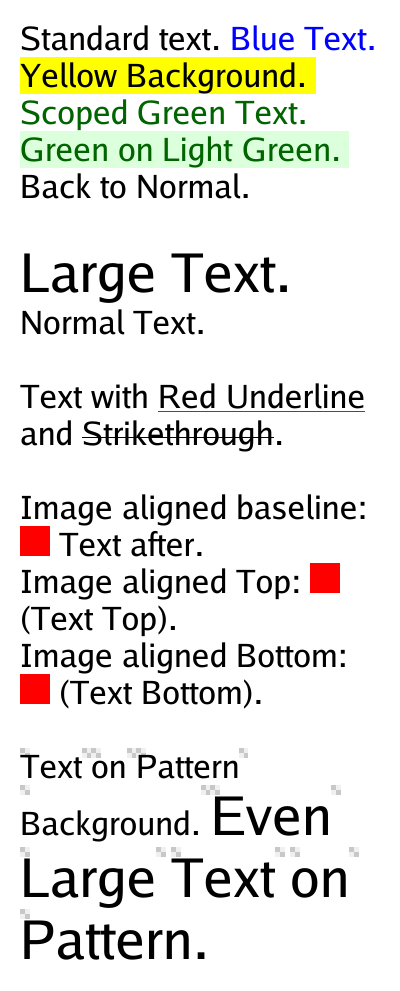
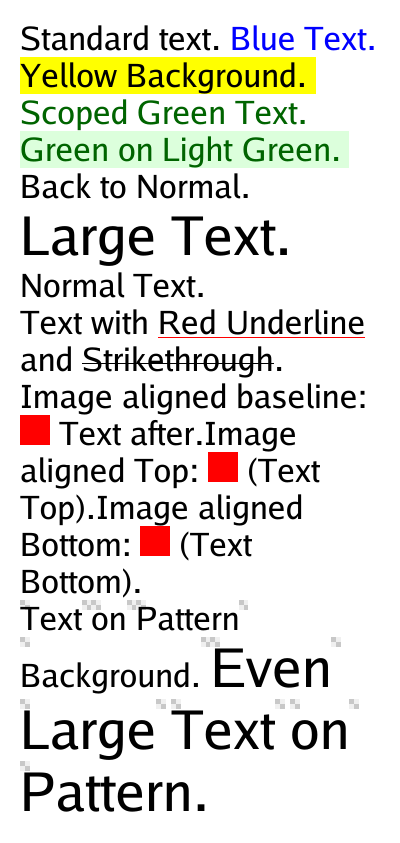
Refactor character grabbing logic, remove a font test, update documentation, and clean up module dependencies.

Changed region(s): [[0.03, 0.0, 0.93, 0.987], [0.48, 0.9561, 0.51, 0.987]]

diff --git a/box.go b/box.go
@@ -575,7 +575,7 @@ func StarTokenizer(text []rune) (int, []rune, int) {
 				}
 			}
 		}
-		if IsSpaceButNotCRLF(r) != isSpace {
+		if !mode(r) {
 			break
 		}
 		n++
@@ -585,7 +585,7 @@ func StarTokenizer(text []rune) (int, []rune, int) {
 		return 1, text[:1], RSimpleBox
 	}
 
-	return n, text[:n], RSimpleBox
+	return n, text[:n], rmode
 }
 
 // SimpleBoxerGrab Consumer of characters until change. Could be made to conform to strings.Scanner
@@ -609,54 +609,6 @@ func SimpleBoxerGrab(text []rune) (int, []rune, int) {
 	}
 	if r == '\n' {
 		return 1, text[:1], RCRLF // LF
-	}
-
-	isSpace := IsSpaceButNotCRLF(r)
-
-	n := 0
-	for n < len(text) {
-		r := text[n]
-		if IsCR(r) || IsLF(r) {
-			break
-		}
-		// Also stop at non-printable characters.
-		if !unicode.IsPrint(r) {
-			break
-		}
-		if IsSpaceButNotCRLF(r) != isSpace {
-			break
-		}
-		n++
-	}
-
-	if n == 0 { // Should not happen given the checks above, but as a safeguard.
-		return 1, text[:1], RSimpleBox
-	}
-
-	return n, text[:n], RSimpleBox
-}
-
-// SimpleBoxerGrab Consumer of characters until change. Could be made to conform to strings.Scanner
-func SimpleBoxerGrab(text []rune) (int, []rune, int) {
-	if len(text) == 0 {
-		return 0, nil, RNIL
-	}
-
-	r := text[0]
-	if r == '\r' {
-		if len(text) > 1 && text[1] == '\n' {
-			return 2, text[:2], RCRLF // CRLF
-		}
-		return 1, text[:1], RCRLF // CR
-	}
-	if r == '\n' {
-		return 1, text[:1], RCRLF // LF
-	}
-
-	if !unicode.IsPrint(text[0]) {
-		// Consume a single non-printable character and signal to ignore it.
-		// This prevents infinite loops on non-printable characters.
-		return 1, nil, RNIL
 	}
 
 	isSpace := IsSpaceButNotCRLF(r)

diff --git a/util/font_test.go b/util/font_test.go
@@ -4,41 +4,6 @@ import (
 	"testing"
 )
 
-func TestGetFace(t *testing.T) {
-	tests := []struct {
-		name string
-	}{
-		{"basicfont"},
-		{"inconsolata-bold"},
-		{"inconsolata-regular"},
-		{"goregular"},
-		{"gobold"},
-		{"gobolditalic"},
-		{"goitalic"},
-		{"gomedium"},
-		{"gomediumitalic"},
-		{"gomono"},
-		{"gomonobold"},
-		{"gomonobolditalic"},
-		{"gomonoitalic"},
-		{"gosmallcaps"},
-		{"gosmallcapsitalic"},
-	}
-
-	for _, tt := range tests {
-		t.Run(tt.name, func(t *testing.T) {
-			face, err := GetFace(tt.name, 12, 72)
-			if err != nil {
-				t.Errorf("GetFace(%q) error = %v", tt.name, err)
-				return
-			}
-			if face == nil {
-				t.Errorf("GetFace(%q) returned nil face", tt.name)
-			}
-		})
-  }
-}
-
 func TestFontByName(t *testing.T) {
 	tests := []string{
 		"goregular",

diff --git a/fold.go b/fold.go
@@ -5,7 +5,6 @@ import (
 	"image"
 	"strings"
 
-	"strings"
 	"golang.org/x/image/font"
 	"golang.org/x/image/math/fixed"
 )
